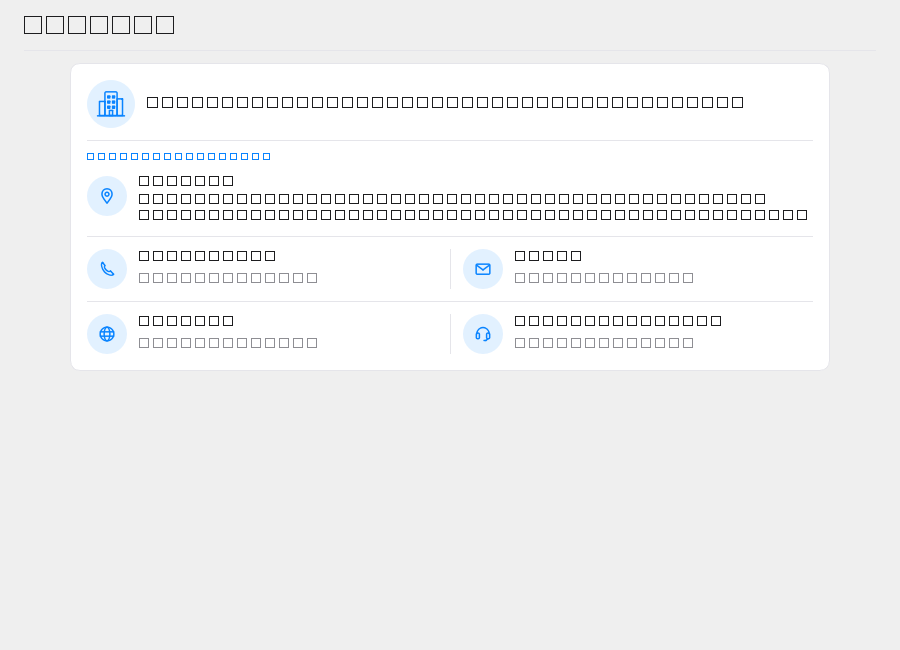
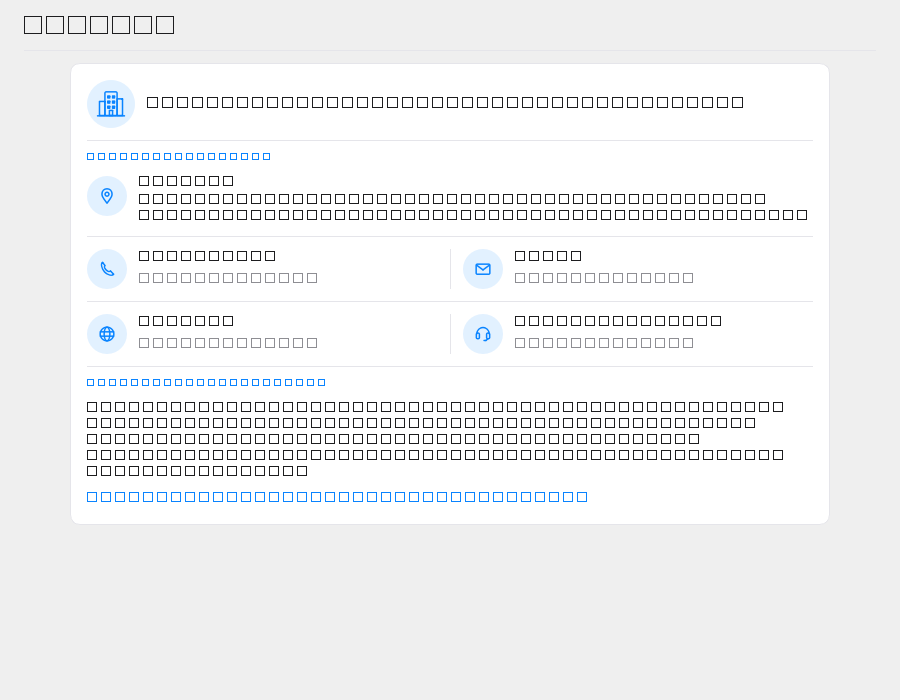
update trang lien he

Changed region(s): [[0.0933, 0.0923, 0.9022, 0.7385], [0.0311, 0.0, 0.1867, 0.0615]]

diff --git a/src/vntts/ui/contact_panel.py b/src/vntts/ui/contact_panel.py
@@ -12,6 +12,7 @@ from PySide6.QtWidgets import (
     QGridLayout,
     QHBoxLayout,
     QLabel,
+    QPushButton,
     QSizePolicy,
     QVBoxLayout,
     QWidget,
@@ -105,6 +106,38 @@ class ContactPage(QWidget):
         details.setColumnStretch(0, 1)
         details.setColumnStretch(2, 1)
 
+        self.license_toggle_button = QPushButton(
+            "ĐIỀU KHOẢN & GIẤY PHÉP",
+            self.card,
+        )
+        self.license_toggle_button.setObjectName("contactLicenseToggle")
+        self.license_toggle_button.setCheckable(True)
+        self.license_toggle_button.setAccessibleName(
+            "Hiển thị nội dung giấy phép"
+        )
+        self.license_toggle_button.setCursor(
+            Qt.CursorShape.PointingHandCursor
+        )
+        self.license_toggle_button.setStyleSheet(
+            f"color: {THEME.accent}; "
+            f"font-size: {THEME.font_size_caption}px; font-weight: 600; "
+            "text-align: left; background: transparent; border: none; "
+            "padding: 0;"
+        )
+        self.license_link_label = QLabel(self.card)
+        self.license_link_label.setObjectName("contactLicenseLink")
+        self.license_link_label.setTextFormat(Qt.TextFormat.RichText)
+        self.license_link_label.setOpenExternalLinks(True)
+        self.license_link_label.setText(
+            '<a href="https://doc.qt.io/qtforpython-6/overviews/qtdoc-lgpl.html" '
+            f'style="color: {THEME.accent}; text-decoration: none;">'
+            "Xem nội dung giấy phép LGPLv3 của Qt</a>"
+        )
+        self.license_link_label.hide()
+        self.license_toggle_button.toggled.connect(
+            self.license_link_label.setVisible
+        )
+
         card_layout = QVBoxLayout(self.card)
         card_layout.setContentsMargins(
             THEME.space_4,
@@ -117,6 +150,9 @@ class ContactPage(QWidget):
         card_layout.addWidget(self._divider())
         card_layout.addWidget(section_title)
         card_layout.addLayout(details)
+        card_layout.addWidget(self._divider())
+        card_layout.addWidget(self.license_toggle_button)
+        card_layout.addWidget(self.license_link_label)
 
         content_row = QHBoxLayout()
         content_row.setContentsMargins(0, 0, 0, 0)

diff --git a/tests/ui/test_main_window.py b/tests/ui/test_main_window.py
@@ -8,7 +8,7 @@ from types import SimpleNamespace
 import numpy as np
 import pytest
 import soundfile as sf
-from PySide6.QtCore import QThreadPool, QTimer
+from PySide6.QtCore import Qt, QThreadPool, QTimer
 from PySide6.QtWidgets import (
     QApplication,
     QBoxLayout,
@@ -96,6 +96,8 @@ def test_window_opens(qtbot, settings: Settings) -> None:  # type: ignore[no-unt
 
     assert window.isVisible()
     assert window.windowTitle() == settings.application.name
+    assert window.sidebar_brand.alignment() == Qt.AlignmentFlag.AlignCenter
+    assert window.sidebar_brand.font().pixelSize() == THEME.font_size_section + 1
     assert window.text_input.text() == DEFAULT_DEMO_TEXT
     assert window.text_input.character_count.text() == f"{len(DEFAULT_DEMO_TEXT)} ký tự"
     assert window.synthesize_button.text() == "Tạo giọng nói"
@@ -597,7 +599,7 @@ def test_contact_page_displays_company_details(
     )
     assert (
         window.contact_page.company_name_label.text()
-        == "Công ty cổ phần đầu tư giải pháp hữu ích"
+        == "CÔNG TY CỔ PHẦN ĐẦU TƯ GIẢI PHÁP HỮU ÍCH"
     )
     assert window.contact_page.address_label.text() == (
         "Lô 17, Khu nhà liền kề Chung cư Simona, đường Hoàng Văn Thụ, "
@@ -607,6 +609,14 @@ def test_contact_page_displays_company_details(
     assert window.contact_page.email_label.text() == "Chưa cập nhật"
     assert window.contact_page.website_label.text() == "Chưa cập nhật"
     assert window.contact_page.support_email_label.text() == "Chưa cập nhật"
+    assert not window.contact_page.license_link_label.isVisible()
+    assert window.contact_page.license_link_label.openExternalLinks()
+    assert "qtdoc-lgpl.html" in window.contact_page.license_link_label.text()
+
+    window.contact_page.license_toggle_button.click()
+
+    assert window.contact_page.license_toggle_button.isChecked()
+    assert window.contact_page.license_link_label.isVisible()
 
     window.contact_page.set_info(
         "Công ty thử nghiệm",

diff --git a/src/vntts/ui/main_window.py b/src/vntts/ui/main_window.py
@@ -257,9 +257,10 @@ class MainWindow(QMainWindow):
         self._sidebar = QFrame(self)
         self._sidebar.setObjectName("sidebar")
         self._sidebar.setFixedWidth(THEME.sidebar_width)
-        brand = QLabel("GPHI TTS", self._sidebar)
-        brand.setObjectName("sidebarBrand")
-        brand.setProperty("role", "section")
+        self.sidebar_brand = QLabel("GPHI TTS", self._sidebar)
+        self.sidebar_brand.setObjectName("sidebarBrand")
+        self.sidebar_brand.setProperty("role", "section")
+        self.sidebar_brand.setAlignment(Qt.AlignmentFlag.AlignCenter)
         self.nav_compose_button = QPushButton("Tạo giọng nói", self._sidebar)
         self.nav_compose_button.setObjectName("navComposeButton")
         self.nav_clone_button = QPushButton("Nhân bản giọng", self._sidebar)
@@ -285,7 +286,7 @@ class MainWindow(QMainWindow):
             THEME.space_4,
         )
         sidebar_layout.setSpacing(THEME.space_2)
-        sidebar_layout.addWidget(brand)
+        sidebar_layout.addWidget(self.sidebar_brand)
         sidebar_layout.addSpacing(THEME.space_5)
         sidebar_layout.addWidget(self.nav_compose_button)
         sidebar_layout.addWidget(self.nav_clone_button)

diff --git a/src/vntts/config/theme.py b/src/vntts/config/theme.py
@@ -164,6 +164,10 @@ def build_stylesheet(t: Theme = THEME) -> str:
         font-size: {t.font_size_section}px;
         font-weight: 600;
     }}
+    QLabel#sidebarBrand {{
+        font-size: {t.font_size_section + 1}px;
+        font-weight: 700;
+    }}
     QLabel#activeModelTitle {{
         color: {t.success};
         font-size: {t.font_size_section}px;
